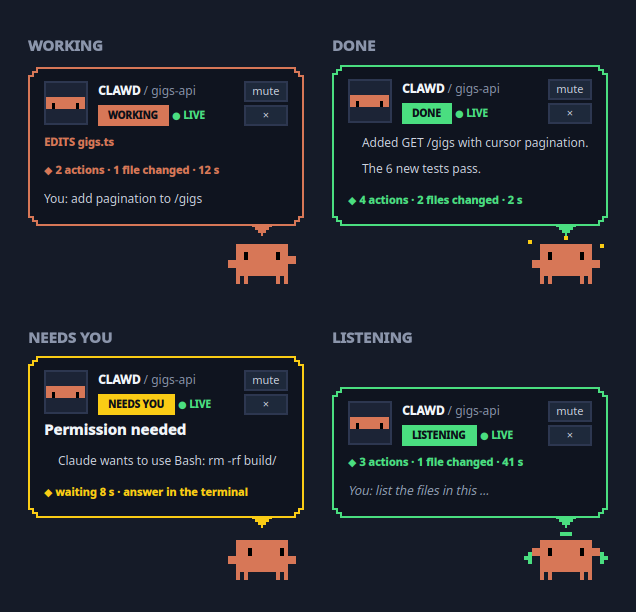
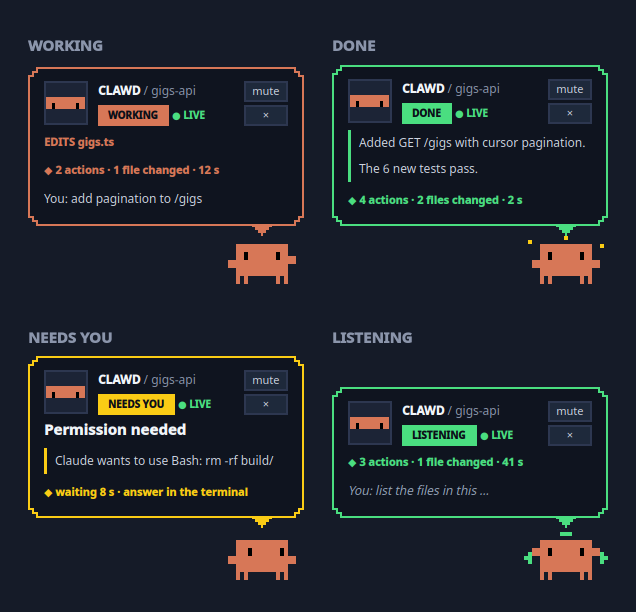
fix: draw the accent bar beside the summary text (stylesheet borders did not paint); refresh README image

Changed region(s): [[0.5377, 0.2173, 0.9261, 0.3105], [0.0597, 0.7451, 0.4481, 0.7761]]

diff --git a/clawd/window.py b/clawd/window.py
@@ -102,6 +102,25 @@ class _Bubble(QWidget):
             p.drawRect(self._tail_x - half, body.height() - 2 + i * 3, half * 2, 3)
 
 
+class _Quote(QLabel):
+    """The summary text with an accent-coloured bar on its left (Qt stylesheet borders do not paint here)."""
+
+    BAR = 3
+
+    def __init__(self) -> None:
+        super().__init__("")
+        self._accent = QColor(ACCENT["dim"])
+        self.setContentsMargins(self.BAR + 8, 2, 0, 2)
+
+    def set_accent(self, color: str) -> None:
+        self._accent = QColor(color)
+        self.update()
+
+    def paintEvent(self, event) -> None:
+        super().paintEvent(event)
+        QPainter(self).fillRect(0, 2, self.BAR, max(0, self.height() - 4), self._accent)
+
+
 class _Face(QWidget):
     """The portrait: Clawd's head on a small dark tile."""
 
@@ -274,7 +293,7 @@ class ClawdWindow(QWidget):
         self._ticker = QLabel("")
         self._headline = QLabel("")
         self._headline.setWordWrap(True)
-        self._body = QLabel("")
+        self._body = _Quote()
         self._body.setWordWrap(True)
         self._stats = QLabel("")
         self.transcript_label = QLabel("")
@@ -321,9 +340,8 @@ class ClawdWindow(QWidget):
         self.panel.set_accent(view.accent)
         self._set_text(self._ticker, view.ticker, f"color: {color}; {_MONO} font-size: 11px;")
         self._set_text(self._headline, view.headline, "color: #f1f5f9; font-size: 15px; font-weight: bold;")
-        self._set_text(
-            self._body, view.body, f"color: #cdd3e0; border-left: 3px solid {color}; padding: 2px 0px 2px 8px;"
-        )
+        self._body.set_accent(color)
+        self._set_text(self._body, view.body, "color: #cdd3e0;")
         self._set_text(
             self._stats, f"◆ {view.stats}" if view.stats else None, f"color: {color}; {_MONO} font-size: 11px;"
         )

diff --git a/tests/test_window.py b/tests/test_window.py
@@ -201,3 +201,26 @@ def test_live_tag_shows_whether_the_mic_is_open(win):
     assert win.live_text() == "LIVE"
     win.set_live(False)
     assert win.live_text() == "MUTED"
+
+
+def _pixel_in_window(win, widget, x, y):
+    """The colour of the rendered window at (x, y) inside `widget`."""
+    point = widget.mapTo(win, QPoint(x, y))
+    return win.grab().toImage().pixelColor(point.x(), point.y()).name()
+
+
+def test_the_quote_bar_is_drawn_beside_the_body_in_the_accent_colour(win):
+    win.show()
+    win.apply_view(View(badge="WORKING", accent="orange", body="Added GET /gigs with cursor pagination."))
+    body = win._body
+    assert _pixel_in_window(win, body, 1, body.height() // 2) == "#d77757"
+    win.apply_view(View(badge="DONE", accent="green", body="Added GET /gigs with cursor pagination."))
+    assert _pixel_in_window(win, body, 1, body.height() // 2) == "#4ade80"
+    # and the text itself is pushed to the right of the bar
+    assert _pixel_in_window(win, body, 40, body.height() // 2) != "#4ade80"
+
+
+def test_the_quote_bar_is_not_drawn_when_there_is_no_body(win):
+    win.show()
+    win.apply_view(View(badge="WORKING", accent="orange", ticker="EDITS gigs.ts"))
+    assert not win._body.isVisible()
